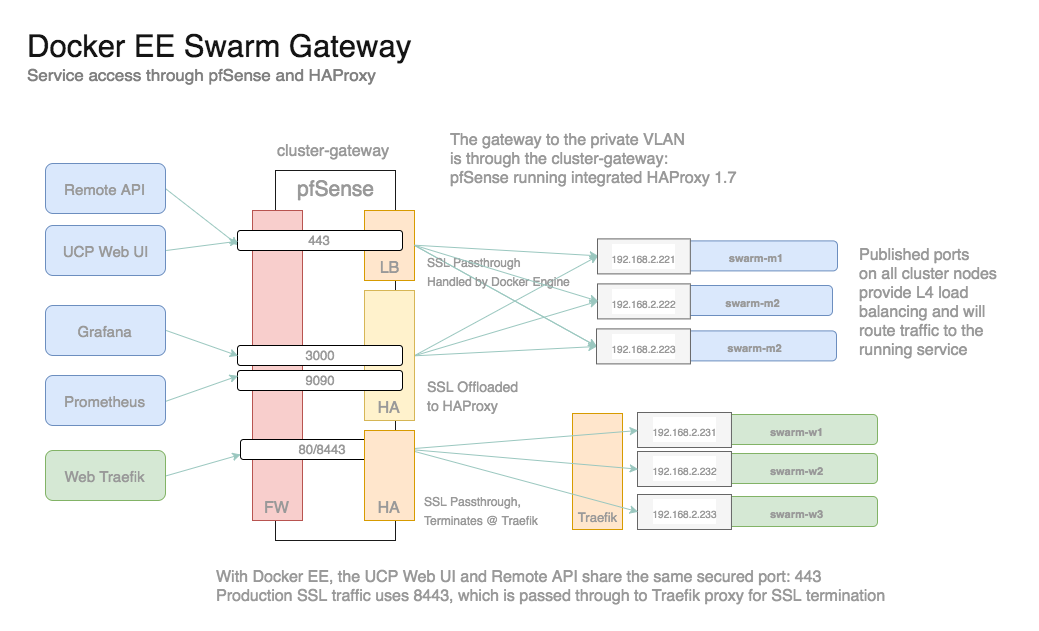
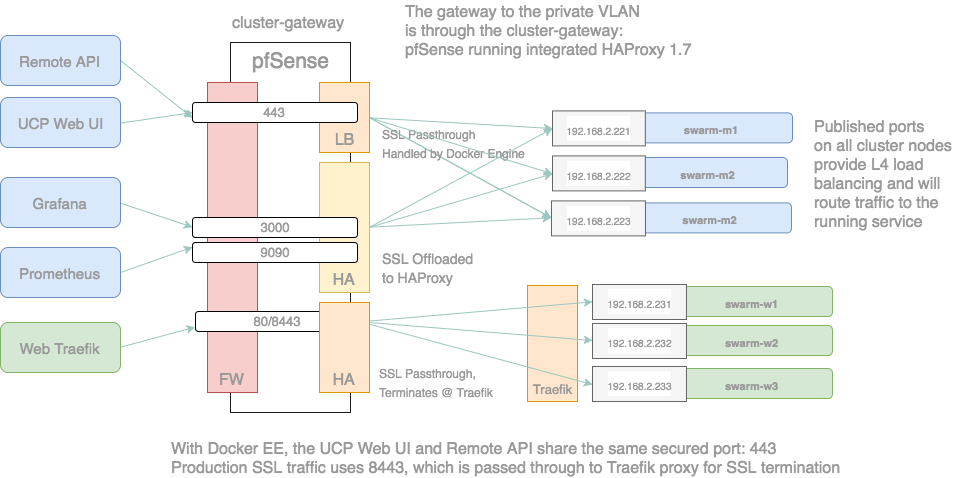
fixes for standard deployment, docs

diff --git a/docs/advanced_swarm.md b/docs/advanced_swarm.md
@@ -18,7 +18,17 @@ This a step-by-step guide to configuring a VMware ESX based Docker CE/EE Swarm i
 13. [Troubleshooting](#troubleshooting)
 
 ## Overview
+The following diagram illustrates the advanced swarm deployment configuration:
+
 ![Advanced Swarm Overview](images/advanced-overview.png)
+
+With this configuration, the __cluster-control__ vm is connected to the private VLANs used by the swarm vm nodes.  Direct access to the underlying swarm virtual machine nodes is not permitted from the external physical network.  All management of the swarm nodes is done through the __cluster-control__ station.
+
+The private VLANs are implemented in the VMware ESX environment.
+
+Access to the management services is secured and load balanced by the dedciated __cluster-gateway__, which provides firewall and load balancing services.  In this example __pfSense CE__ is used as the __cluster-gateway__, and it is installed as a virtual machine.
+
+Control and Data plane traffic in the Docker Swarm has been separated each assigned a dedicated interface (subnet), with all inbound traffic directed to the data plane interfaces.
 
 ## Configure VMware VLANs
 
